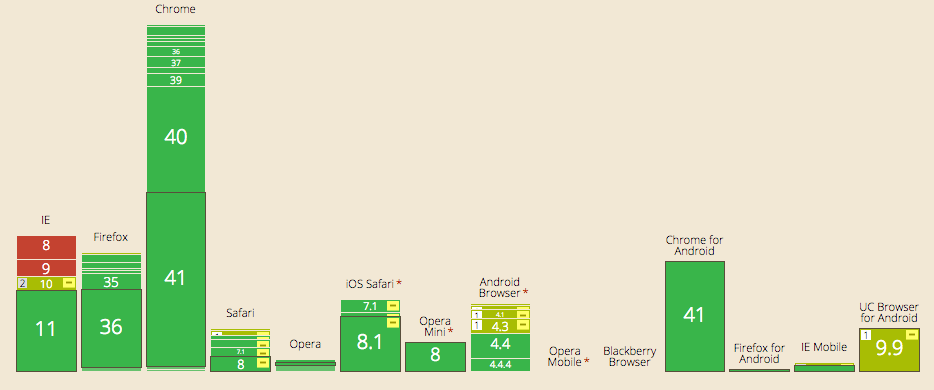
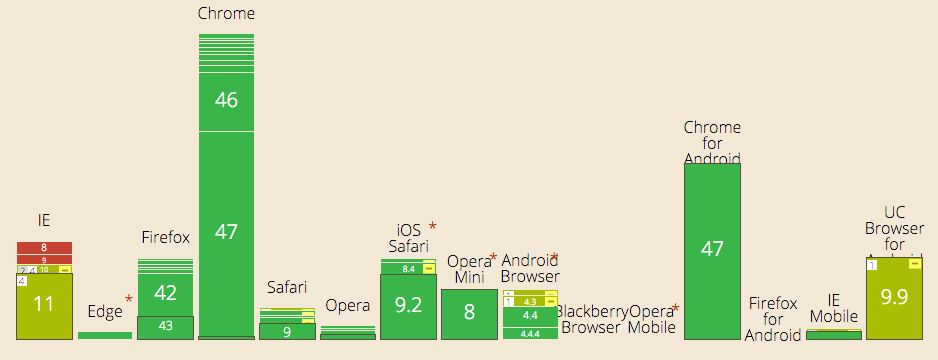
update screenshot

Changed region(s): [[0.0, 0.0, 0.9936, 0.9778]]

diff --git a/index.html b/index.html
@@ -6,7 +6,7 @@
 
     <title>A presentation of Flexbox CSS</title>
 
-    <meta name="description" content="A presentation of angular.js">
+    <meta name="description" content="A presentation of flexbox css">
     <meta name="author" content="Freddy Harris">
 
     <meta name="apple-mobile-web-app-capable" content="yes" />
@@ -48,6 +48,9 @@
       .reveal p {
         font-weight: 300;
       }
+      .reveal .progress{
+        height: 4px;
+      }
       .reveal .progress span{
         background: #EA5C45;
       }
@@ -61,6 +64,9 @@
         letter-spacing: 0.025em;
         padding: 8px 8px 10px;
         font-size: 30px;
+      }
+      .reveal .controls {
+        visibility: hidden;
       }
       .reveal .controls div.navigate-left,
       .reveal .controls div.navigate-left.enabled {
@@ -82,6 +88,21 @@
       .reveal .li-divider {
         list-style: none;
         margin-top: 10px;
+      }
+      .reveal .signature {
+        margin-top: 50px;
+        letter-spacing: 2px;
+        display: flex;
+        align-items: center;
+        justify-content: center;
+        z-index: 1;
+        opacity: 0.75;
+      }
+      .reveal .signature img{
+        border: none;
+        box-shadow: none;
+        height: 50px;
+        margin-right: 5px;
       }
 
       .container {
@@ -296,14 +317,14 @@
 
         <section data-background="img/fa_artboard.png">
           <h4 style="color: white">Currently</h4>
-          <h2 style="color: white">Front end developer</h2>
+          <h2 style="color: white">Lead Front end developer</h2>
           <p><a href="http://followanalytics.com">FollowAnalytics</a></p>
         </section>
 
         <section>
           <h4>Projet personnel</h4>
           <a href="http://www.mangacollec.com" target="_blank">
-            <img src="img/mangacollec.png" />
+            <img src="img/mangacollec.jpg" />
           </a>
         </section>
 
@@ -339,9 +360,14 @@
           <p><a href="http://breakupwithie8.com" target="_blank">http://breakupwithie8.com</a></p>
         </section>
 
-        <section>
+        <!--<section>
           <img src="img/StatCounter-browser_version_partially_combined-FR-monthly-201503-201503-bar.png">
           <p>Stats France Mars 2015</p>
+        </section>-->
+
+        <section>
+          <img src="img/StatCounter-browser_version_partially_combined-FR-monthly-201512-201512-bar.png">
+          <p>Stats France Decembre 2015</p>
         </section>
 
         <section>
@@ -362,6 +388,7 @@
               </tr>
             </tbody>
           </table>
+          <p style="margin-top:20px"><small>Stats France Mars 2015</small></p>
           <aside class="notes">
           <p>PlayTV : plus de 6 millions de visites mensuelles - 8e sites le plus visités au Classement CybereStat des sites souscripteurs de l’étude Médiamétrie-eStat en décembre 2012</p>
           </aside>
@@ -1396,13 +1423,13 @@ h3::after {
         <section>
           <h2>Merci</h2>
 
-          <h4><a href="https://remixjobs.com/rjday/company/69957/informations" target="_blank">FollowAnalytics recrute !</a></h4>
-          <ul>
-            <li>Dev Backend Ruby</li>
-            <li>Dev iOS</li>
-            <li>Dev Android</li>
-            <li>QA Engineer</li>
-          </ul>
+          <div class="signature">
+            <img src="img/twitter.png">
+            <a href="http://twitter.com/harrisfreddy" target="_blank">@harrisfreddy</a>
+          </div>
+
+          <p style="margin-top:30px;">Freelance Front-end</p>
+          <p><small>React.js • Mobile First • Hybrid & Progressive Web Apps</small></p>
         </section>
 
       </div>
